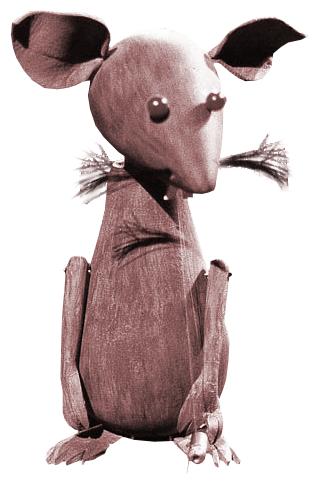
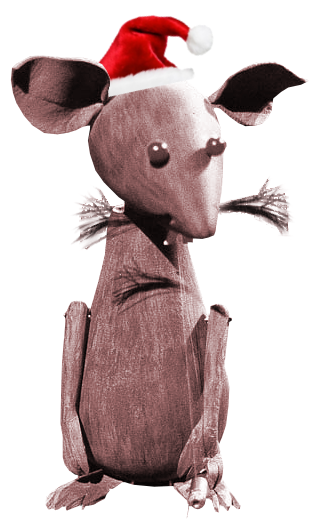
Nissehue på Tagmusen.

diff --git a/wp-content/plugins/wpdka-pixies/css/style.css b/wp-content/plugins/wpdka-pixies/css/style.css
@@ -1,6 +1,6 @@
 .dka-pixie {
 	position: fixed;
-	left: -150px;
+	left: -120px;
 	bottom: -200px;
 	transform: rotate(-10deg) scale(0.5);
 	-ms-transform: rotate(-10deg) scale(0.5);
@@ -20,7 +20,7 @@
 
 @media (max-width: 767px) {
 	.dka-pixie {
-		left: -160px;
+		left: -130px;
 		bottom: -200px;
 		transform: rotate(-10deg) scale(0.33);
 		-ms-transform: rotate(-10deg) scale(0.33);
